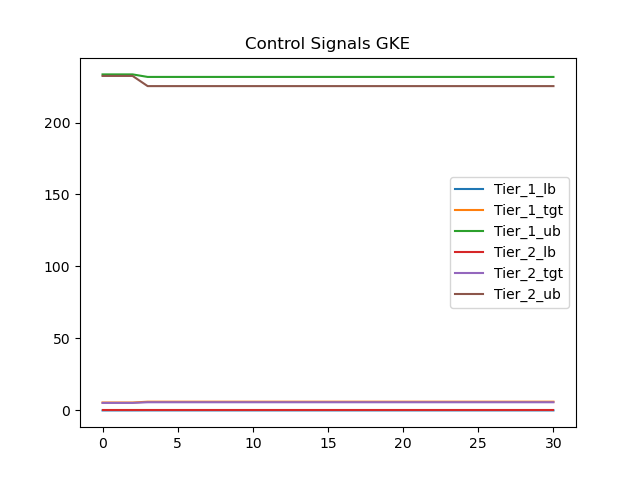
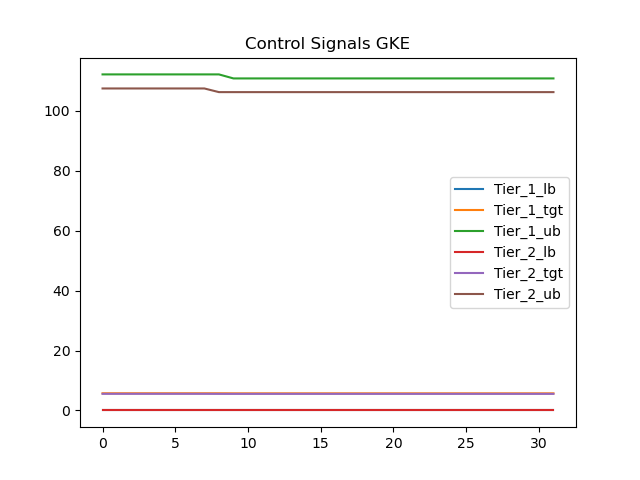
minor

diff --git a/3tier-app/client/src/main/java/experiment/RandomStep.java b/3tier-app/client/src/main/java/experiment/RandomStep.java
@@ -74,11 +74,10 @@ public class RandomStep implements Runnable {
 		Object t2_gke = this.memClient.get("t2_gke");
 
 		if (t1_gke != null && t2_gke != null) {
-
 			String st1_gke = String.valueOf(t1_gke);
 			String st2_gke = String.valueOf(t2_gke);
 			if (!st1_gke.equals("None") && !st2_gke.equals("None")) {
-				System.out.println("found:" + st1_gke +"-"+st2_gke);
+				System.out.println("found:" + st1_gke + "-" + st2_gke);
 				this.gkeCtrl.add(new Double[] { Double.valueOf(st1_gke), Double.valueOf(st2_gke) });
 			}
 		}
@@ -102,20 +101,23 @@ public class RandomStep implements Runnable {
 				e.printStackTrace();
 			}
 		}
-//		String end_sim = String.valueOf(this.memClient.get("end_sim"));
-//		if(end_sim=="1") {
-//			System.out.println("dumping ctrl trace");
-//			JSONArray json_array = new JSONArray(this.gkeCtrl);	
-//			FileWriter myWriter;
-//			try {
-//				myWriter = new FileWriter("trace.json");
-//				myWriter.write(json_array.toString());
-//			    myWriter.close();
-//			} catch (IOException e) {
-//				e.printStackTrace();
-//			}
-//			this.memClient.set("saved", 3600, "1");
-//		}
+		Object end_sim = this.memClient.get("end_sim");
+		if (end_sim != null) {
+			String send_sim = String.valueOf(end_sim);
+			if (send_sim.equals("1")) {
+				System.out.println("dumping ctrl trace");
+				JSONArray json_array = new JSONArray(this.gkeCtrl);
+				FileWriter myWriter;
+				try {
+					myWriter = new FileWriter("trace.json");
+					myWriter.write(json_array.toString());
+					myWriter.close();
+				} catch (IOException e) {
+					e.printStackTrace();
+				}
+				this.memClient.set("saved", 3600, "1");
+			}
+		}
 		this.tick++;
 	}
 

diff --git a/3tier-app/controller/optCtrlNN_real.py b/3tier-app/controller/optCtrlNN_real.py
@@ -550,9 +550,6 @@ if __name__ == "__main__":
                 optU = optU_N * ctrl.stdu + ctrl.meanu
                 Sold = optU_N
                 
-                r.set("t1_gke",str(np.round(optU[1],4)))
-                r.set("t2_gke",str(np.round(optU[2],4)))
-                
                 #r.mset({"t1_hw":str(np.round(optU[1],4)),"t2_hw":str(np.round(optU[2],4))})
                 #if(isCpu):
                 #    setU(optU)
@@ -567,6 +564,9 @@ if __name__ == "__main__":
                 optSGKEt[:,step] = [0,gket1[1],gket2[1]]
                 optSGKEu[:,step] = [0,gket1[2],gket2[2]]
                 tgtStory += [tgt]
+                
+                r.set("t1_gke",str(gket1[1]))
+                r.set("t2_gke",str(gket2[1]))
                 
                 
                 # optSPID[:,step]=optSPid
